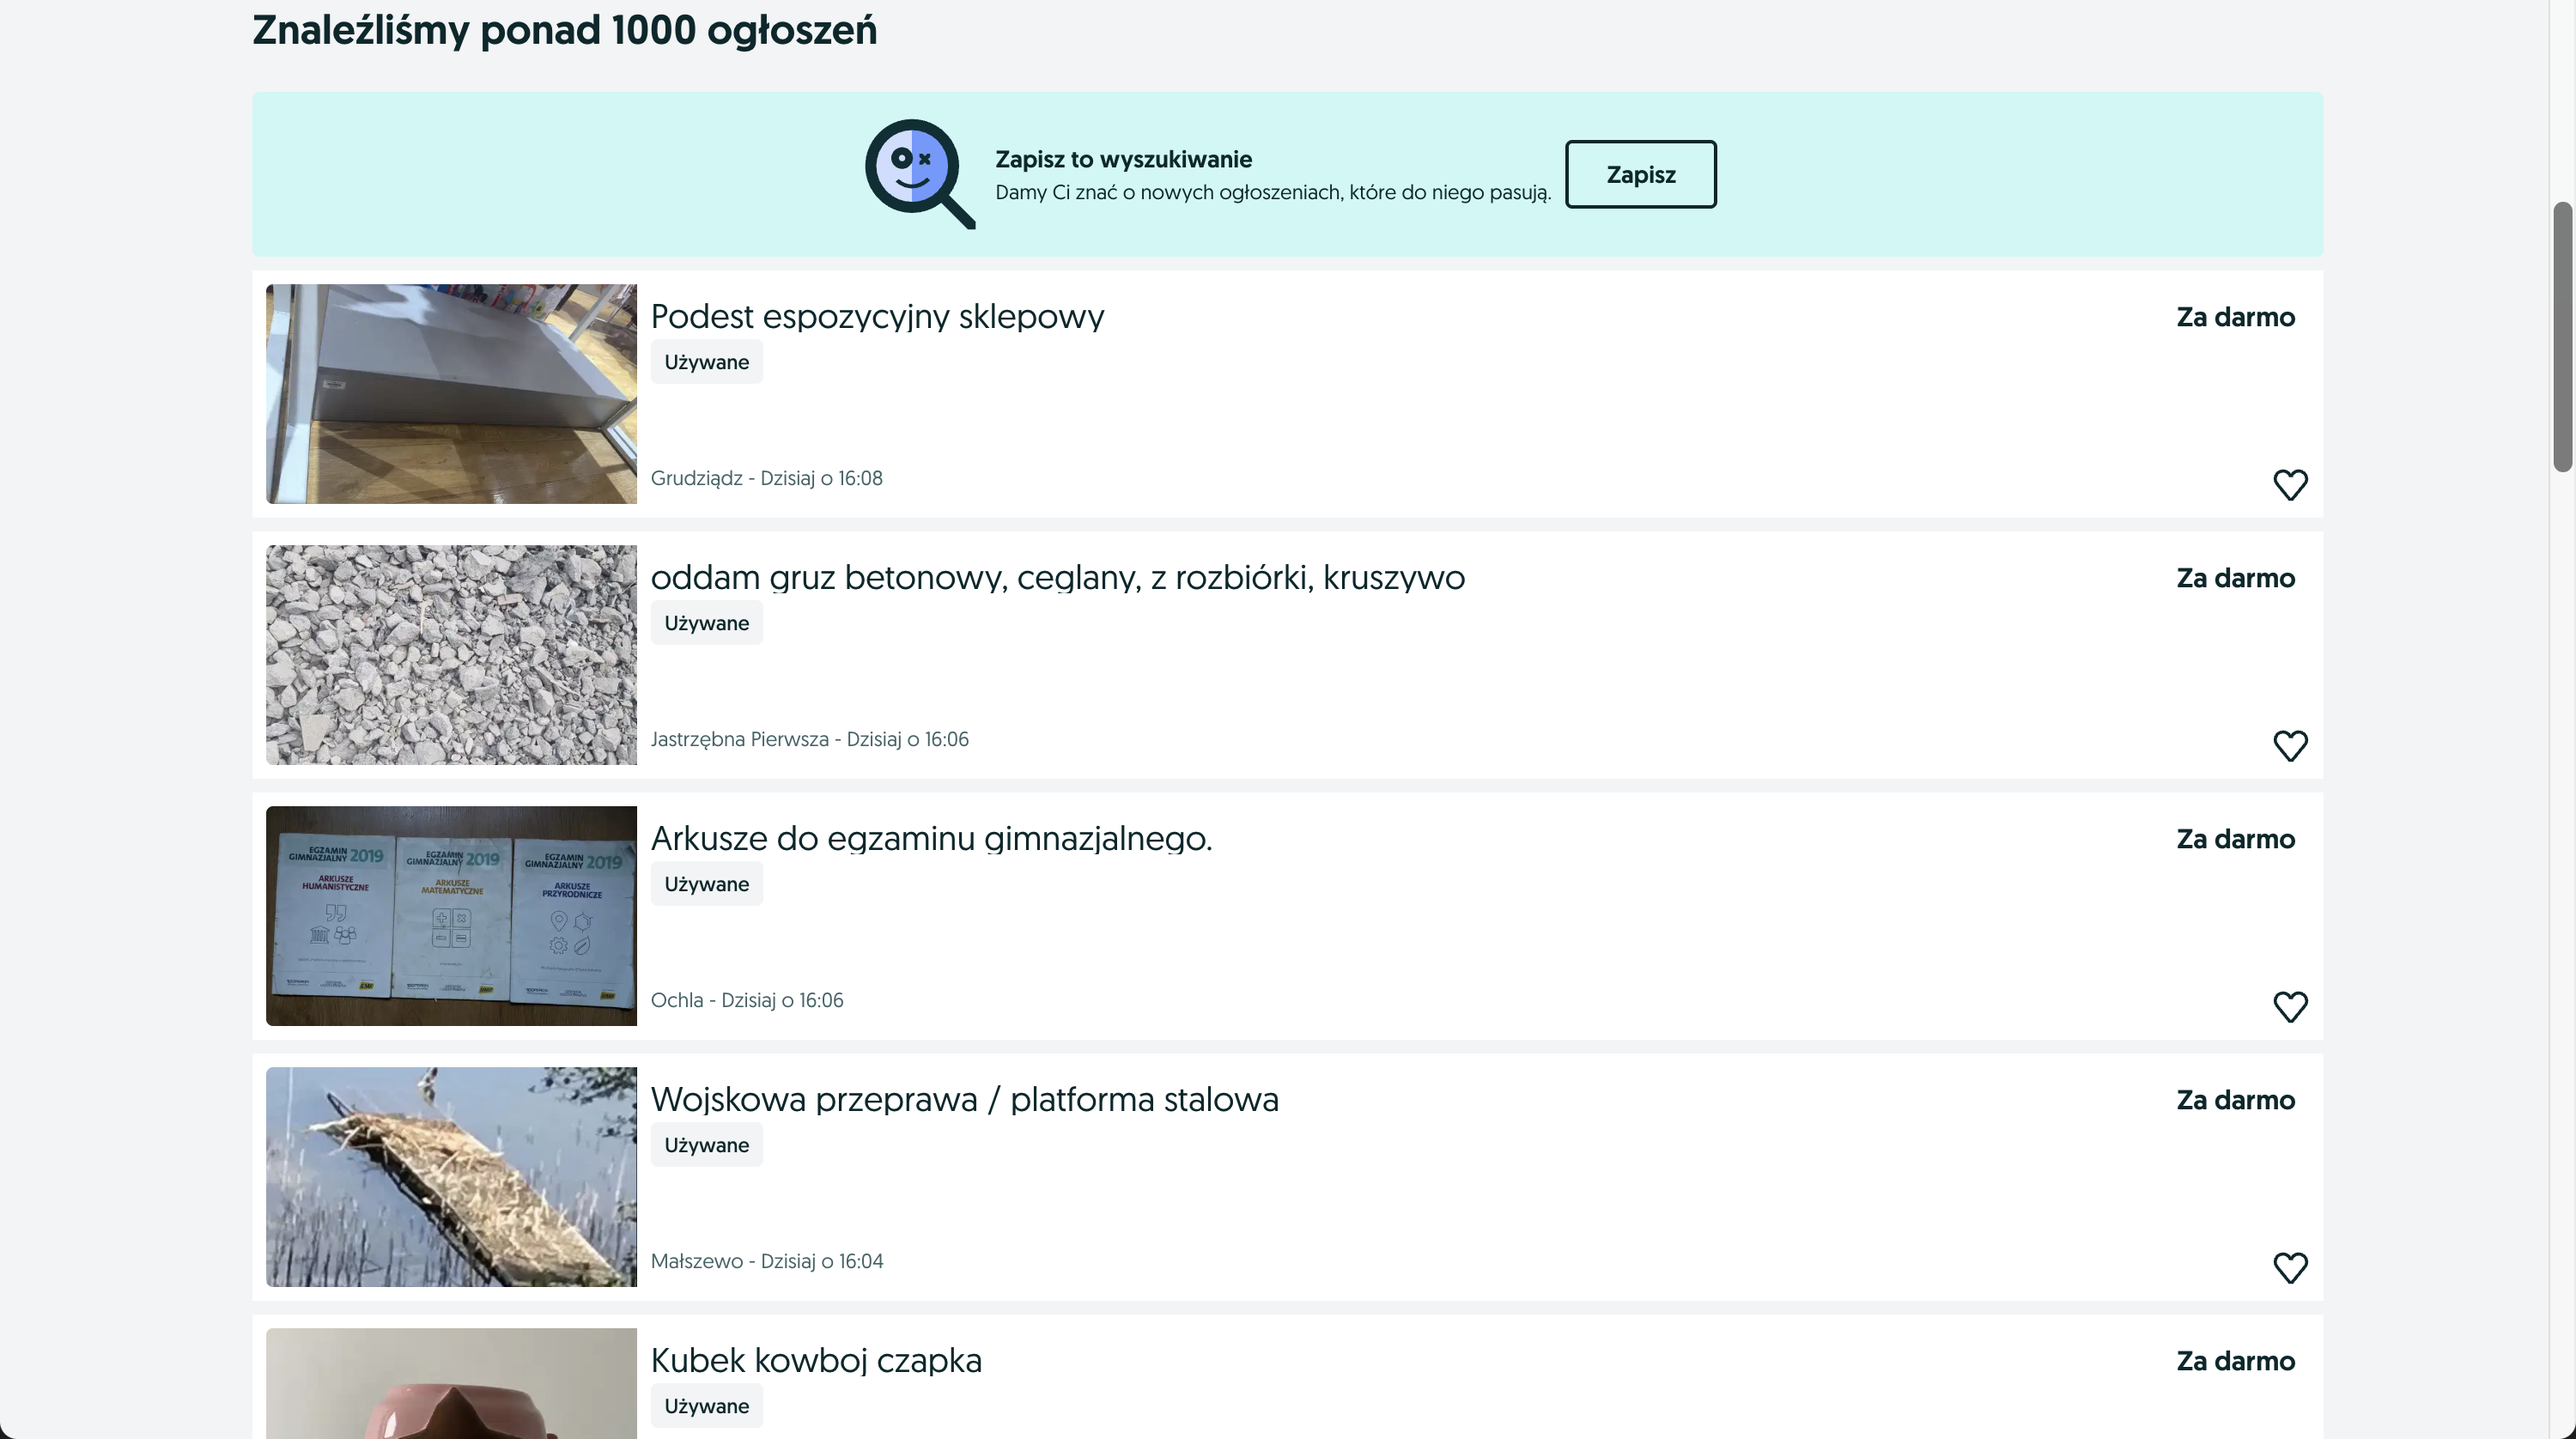
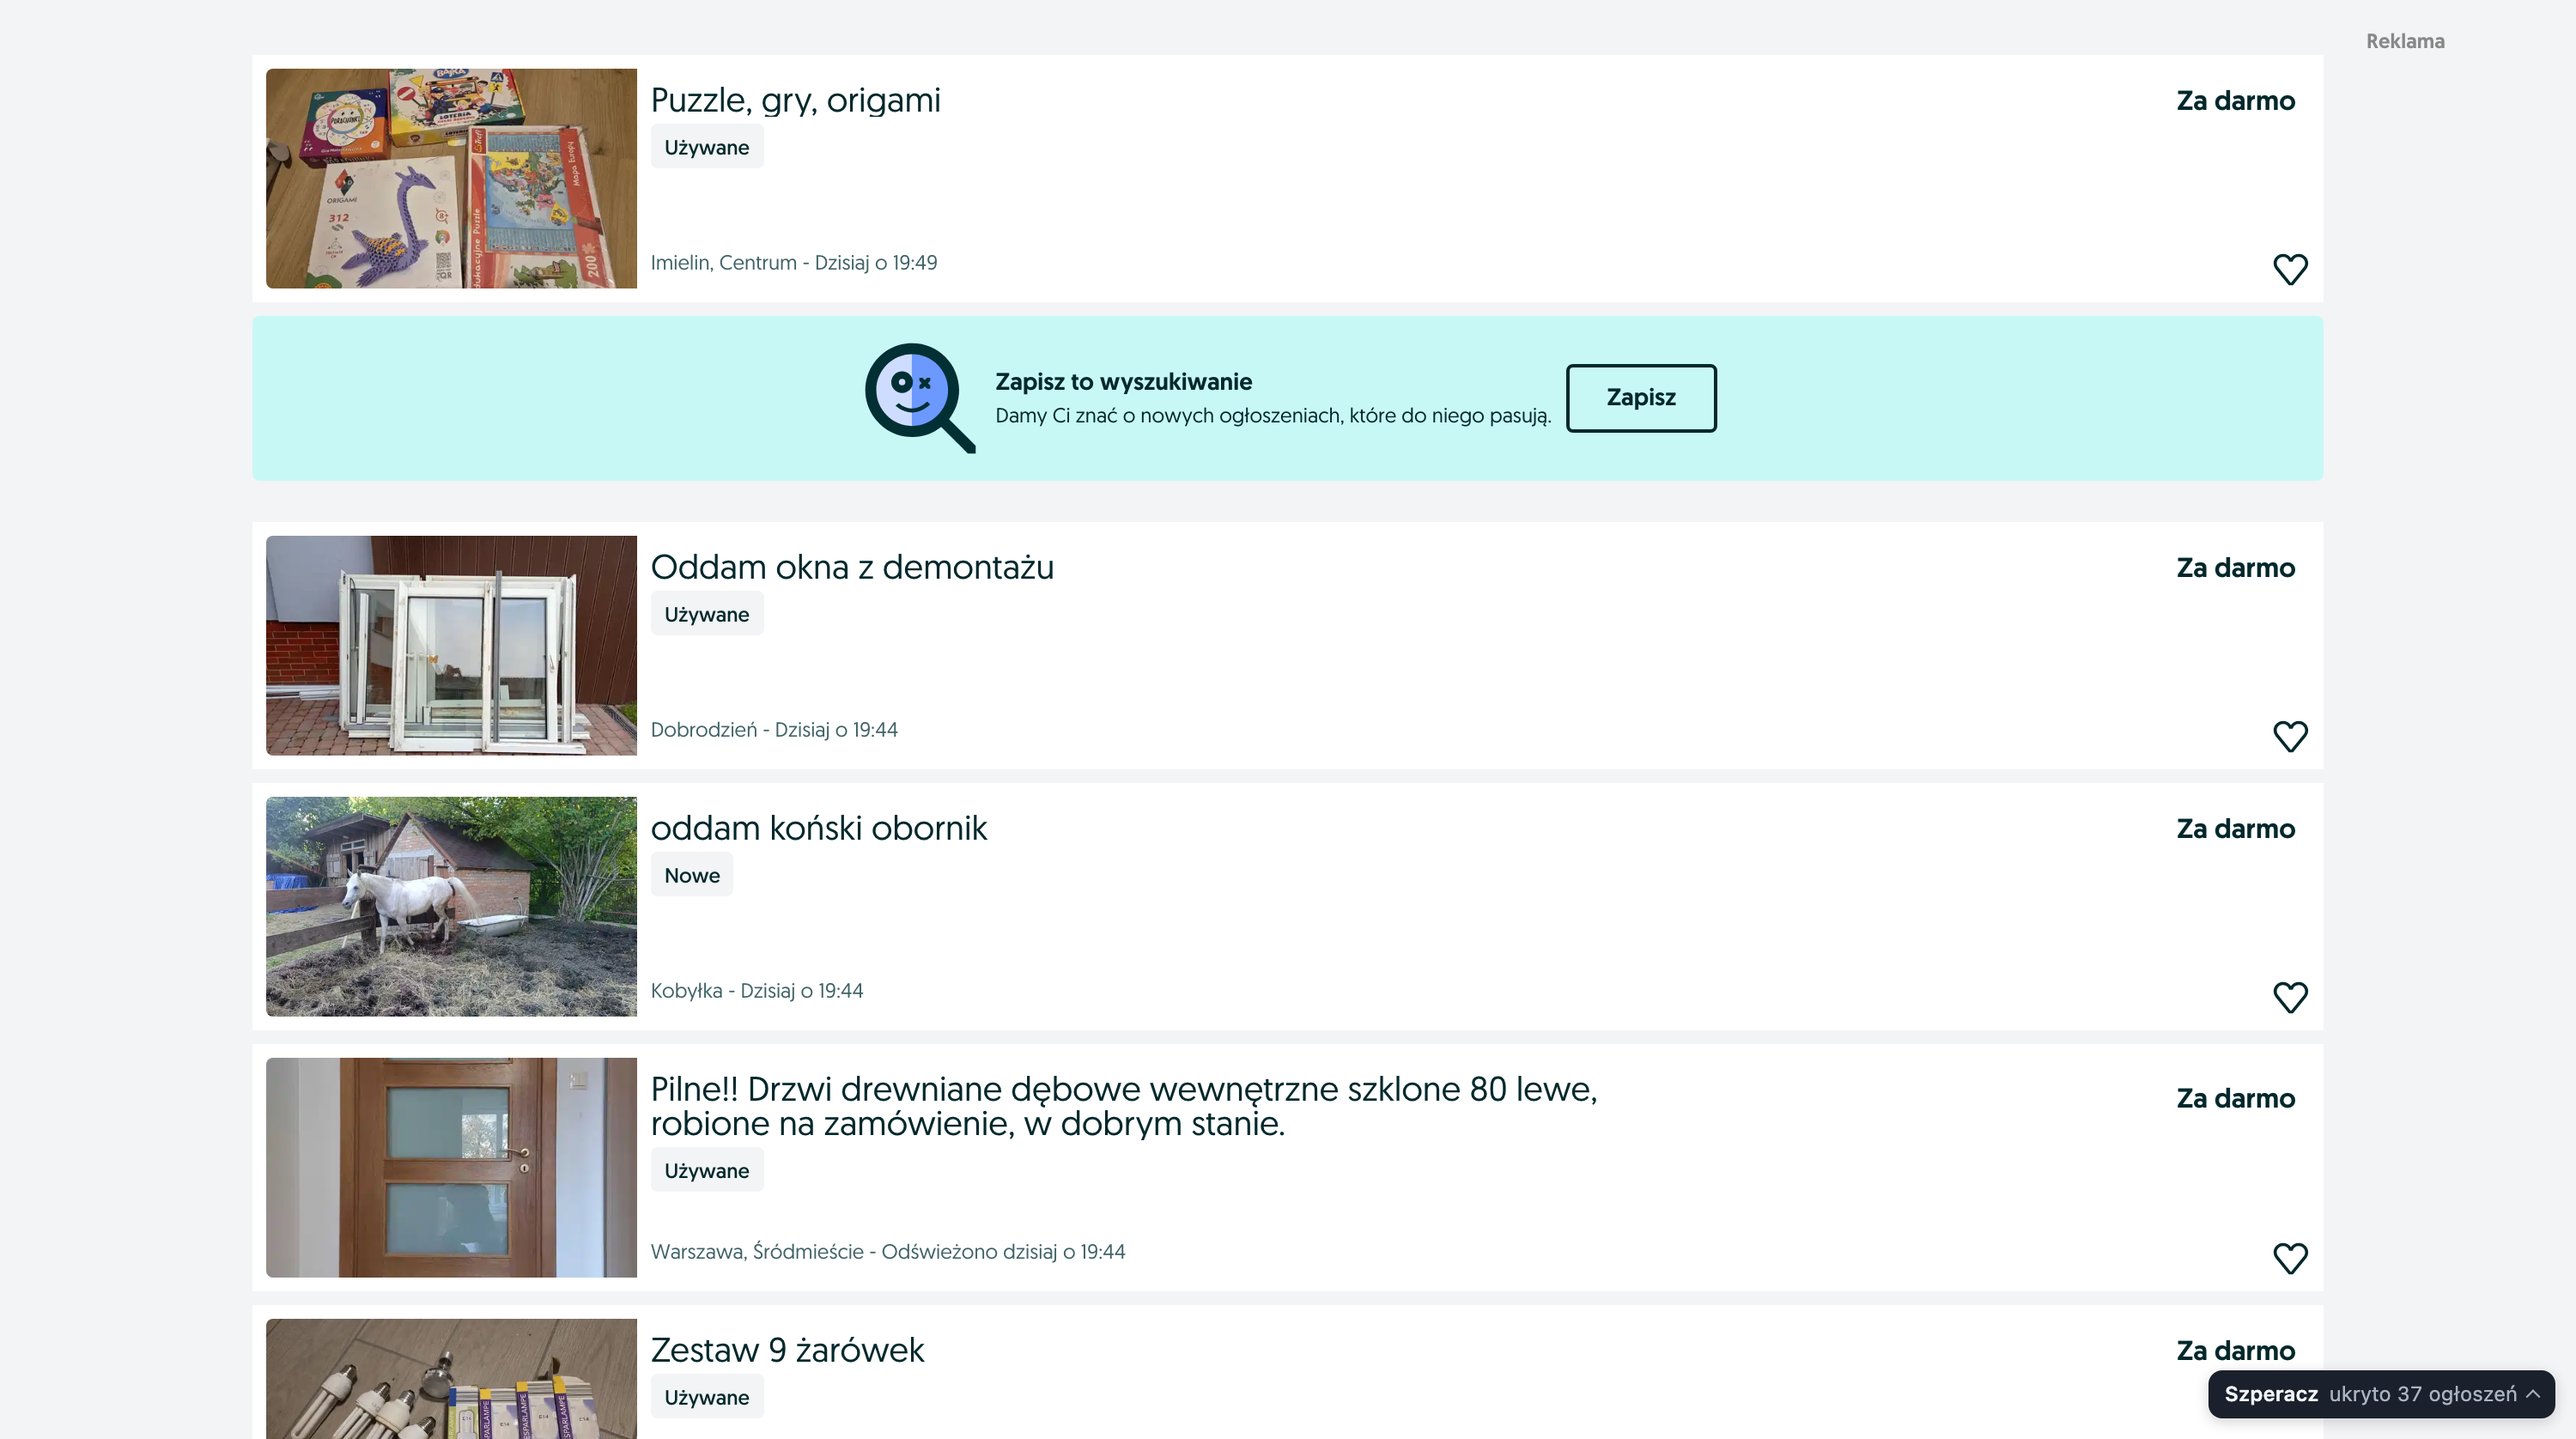
Nie rysuj plakietki przed wczytaniem ustawień; nowe zrzuty w README
content.js: skrypt startuje w document_start, więc refresh() z domyślnymi
ustawieniami pokazałby gołą plakietkę także tym, którzy ją wyłączyli.
Do czasu wczytania storage niczego nie rysujemy.

README: nowe zrzuty popupu (jasny/ciemny, <picture>), przed/po na żywym
OLX oraz rozwinięta plakietka. Zrobione prawdziwym content.js
i categories.js (atrapa chrome.*) w headless Chrome, 2x.

diff --git a/content.js b/content.js
@@ -72,6 +72,9 @@ input:focus-visible + .box { outline: 2px solid #febd3d; outline-offset: 2px; }
 const OBSERVER_OPTS = { childList: true, subtree: true };
 
 let settings = DEFAULTS;
+// Dopóki ustawienia nie wczytają się ze storage, niczego nie rysujemy: skrypt startuje w
+// document_start, a z domyślnymi ustawieniami plakietka mignęłaby też tym, kto ją wyłączył.
+let settingsLoaded = false;
 let observer = null;
 let refreshScheduled = false;
 let counterUi = null; // powłoka licznika budowana raz, potem tylko aktualizowana
@@ -246,6 +249,7 @@ function updateCounter(hidden) {
 }
 
 function refresh() {
+  if (!settingsLoaded) return;
   const onFreePage = FREE_PATH.test(location.pathname);
   // Poza stroną „Oddam za darmo” lub przy wyłączonym filtrze nie ruszamy DOM strony.
   if (!settings.enabled || !onFreePage) {
@@ -277,6 +281,7 @@ function scheduleRefresh() {
 const load = () =>
   chrome.storage.sync.get(DEFAULTS).then((saved) => {
     settings = saved;
+    settingsLoaded = true;
     refresh();
   });
 

diff --git a/README.md b/README.md
@@ -39,7 +39,10 @@ Następnie kliknij ikonę rozszerzenia, odznacz „Zwierzęta” i wejdź na [ht
 
 Kliknij ikonę rozszerzenia na pasku Chrome. W popupie:
 
-<img src="screenshots/popup.png" alt="Popup Szperacza z listą kategorii i przełącznikami" width="280" align="right">
+<picture>
+  <source media="(prefers-color-scheme: dark)" srcset="screenshots/popup-dark.png">
+  <img src="screenshots/popup-light.png" alt="Popup Szperacza: kategorie w dwóch kolumnach, liczba ukrytych ogłoszeń i przełączniki" width="300" align="right">
+</picture>
 
 - przełącznik w prawym górnym rogu włącza i wyłącza całe filtrowanie,
 - **zaznaczona** kategoria jest pokazywana, **odznaczona** jest ukrywana,
@@ -49,6 +52,10 @@ Kliknij ikonę rozszerzenia na pasku Chrome. W popupie:
 - przełącznik „Licznik ukrytych ogłoszeń” (domyślnie włączony) pokazuje w prawym dolnym rogu listy plakietkę „Szperacz ukryto N ogłoszeń” — licznik aktualizuje się też przy doładowywaniu kart podczas przewijania.
 
 **Kliknięcie plakietki rozwija listę kategorii** z liczbą ogłoszeń w każdej z nich na bieżącej stronie. Kategorie można tam włączać i wyłączać bez otwierania popupu (zmiany zapisują się tak samo jak w popupie); `Esc` zwija listę. Gdy nic nie jest ukryte, plakietka zostaje jako sama nazwa „Szperacz” ze strzałką, żeby lista kategorii była zawsze pod ręką.
+
+<p align="center">
+  <img src="screenshots/counter-open.png" alt="Rozwinięta plakietka Szperacza na liście ogłoszeń OLX: kategorie z liczbą ogłoszeń i checkboxami" width="720">
+</p>
 
 Domyślnie wszystkie kategorie są zaznaczone (widoczne), więc żeby coś ukryć — odznacz to w popupie.
 
